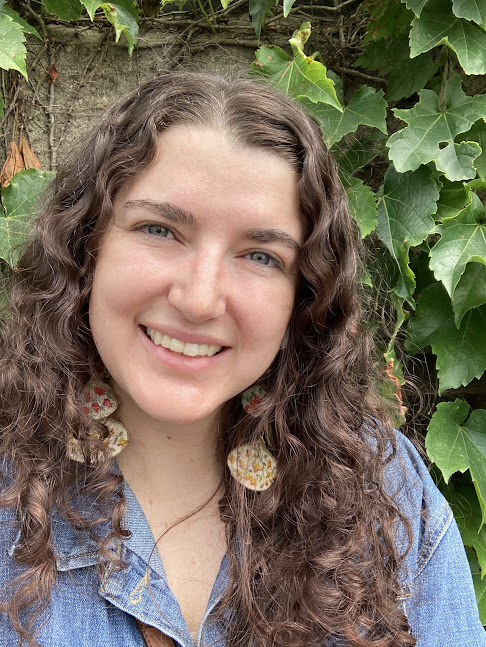
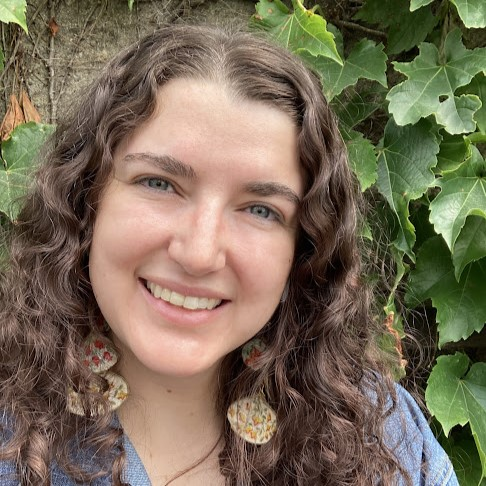
resize images and adjust hero padding

diff --git a/_sass/3-modules/_hero.scss b/_sass/3-modules/_hero.scss
@@ -14,13 +14,14 @@
     flex-direction: column;
     justify-content: center;
     width: 100%;
-    padding: 0 40px 10px 10px;
-    background-color: #fff;
+    padding: 0 40px 0 0;
+    background-color: $white;
     border-radius: 10px;
     
     .hero__title {
       font-size: 38px;
       font-weight: normal;
+      padding: 0 10px;
     }
 
     .hero__subtitle {

diff --git a/_sass/0-settings/_variables.scss b/_sass/0-settings/_variables.scss
@@ -22,7 +22,7 @@ $second: #4FB0AE; //cheongja
 $third: #717548; // jade
 $red: #9C1B31; // oxblood
 $light-gray: #e6eef0;
-$white: #ffffff;
+$white: ##F1E6E4; //seaashell
 $black: #000000;
 
 
